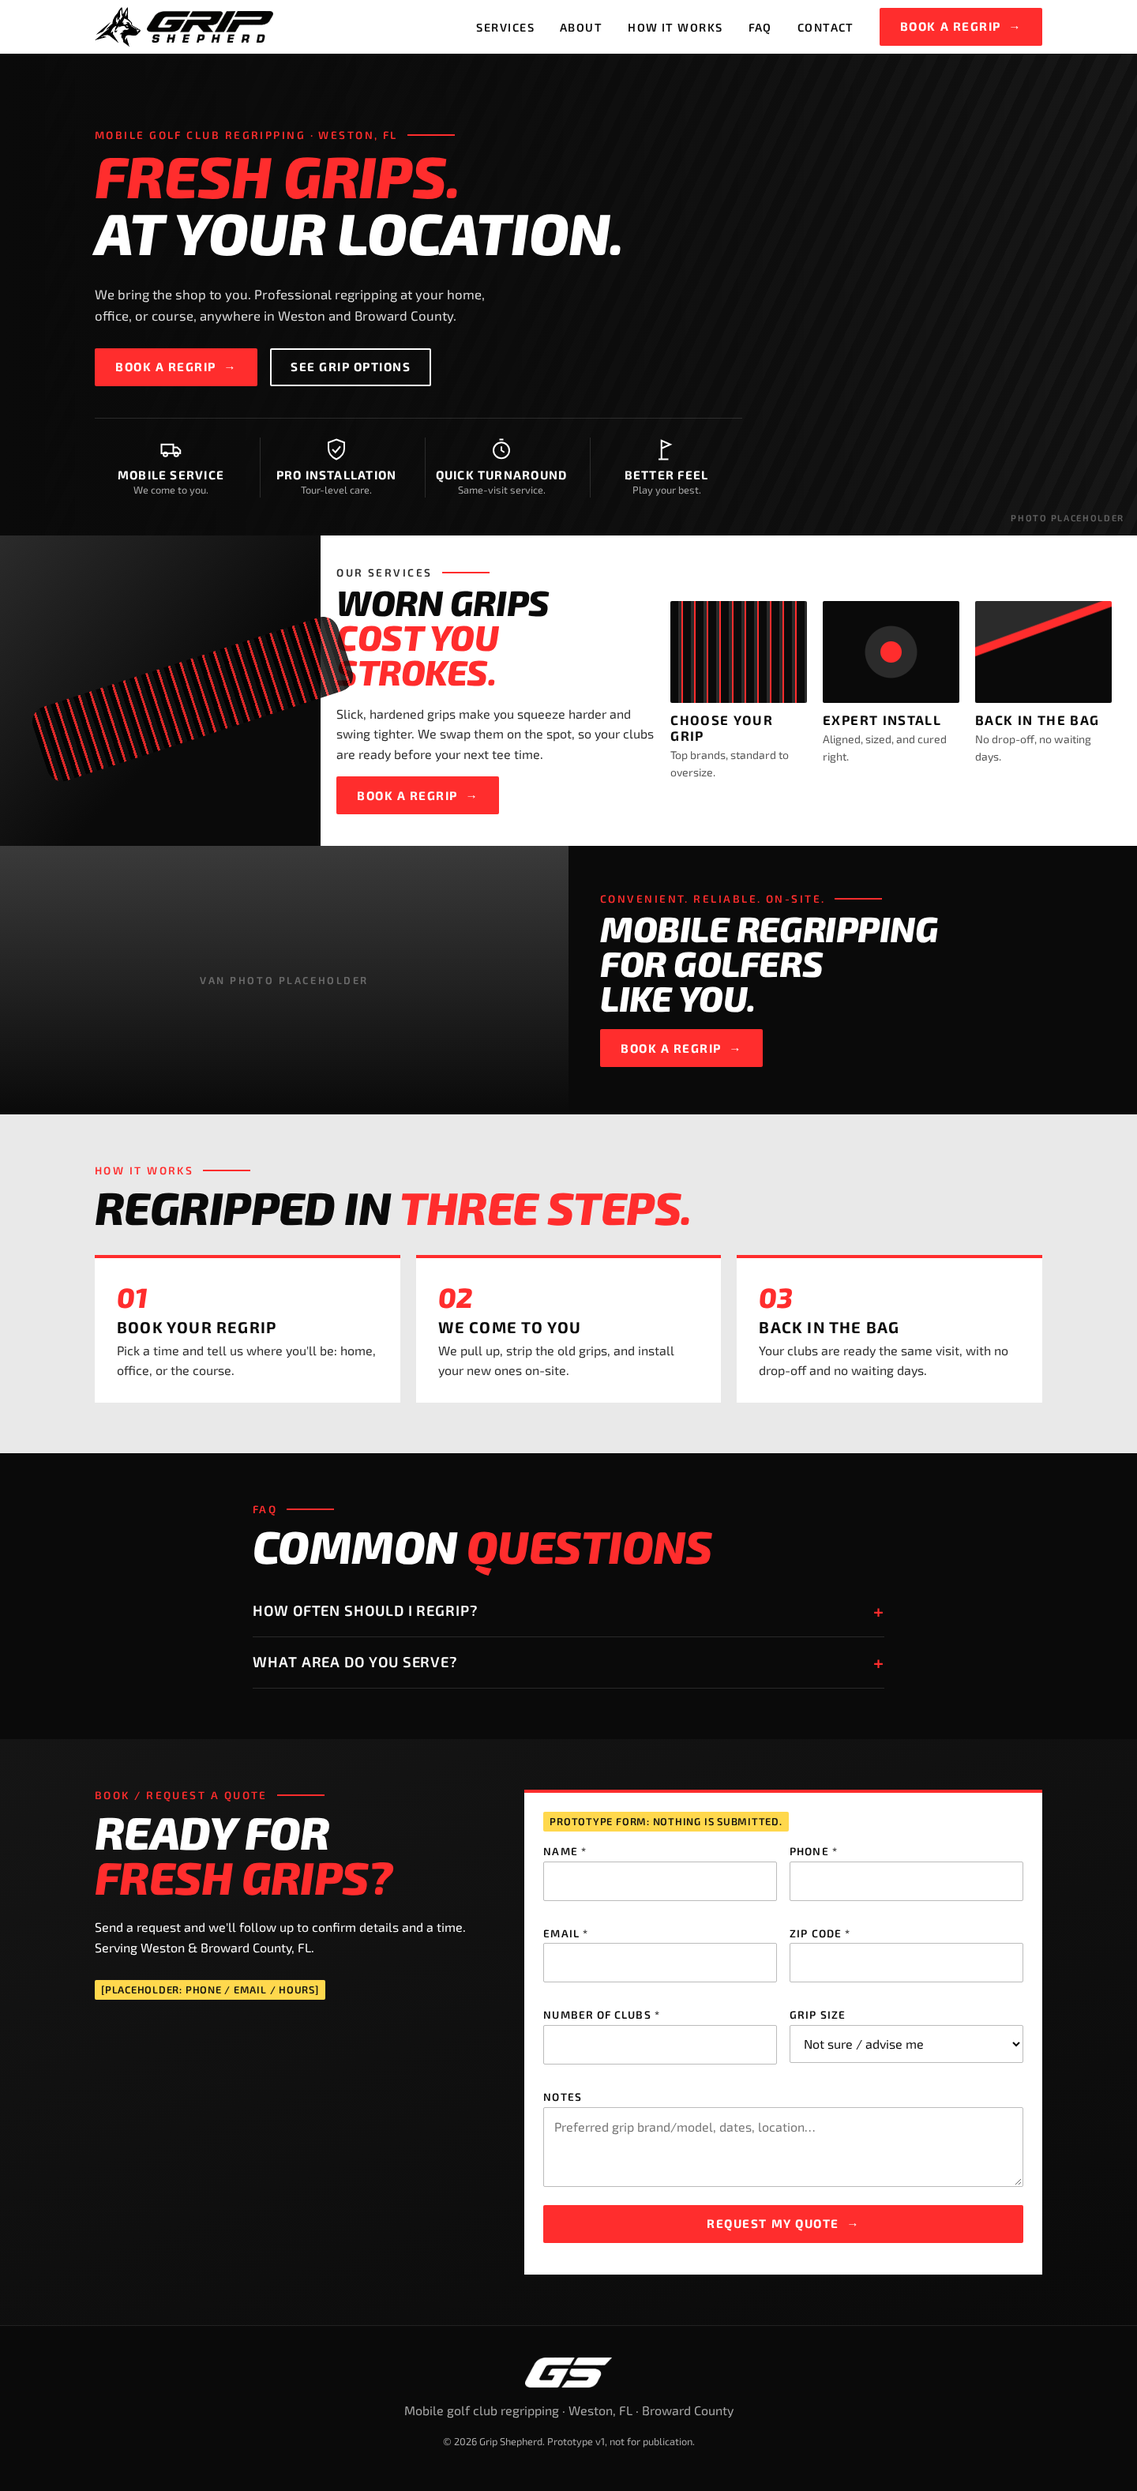
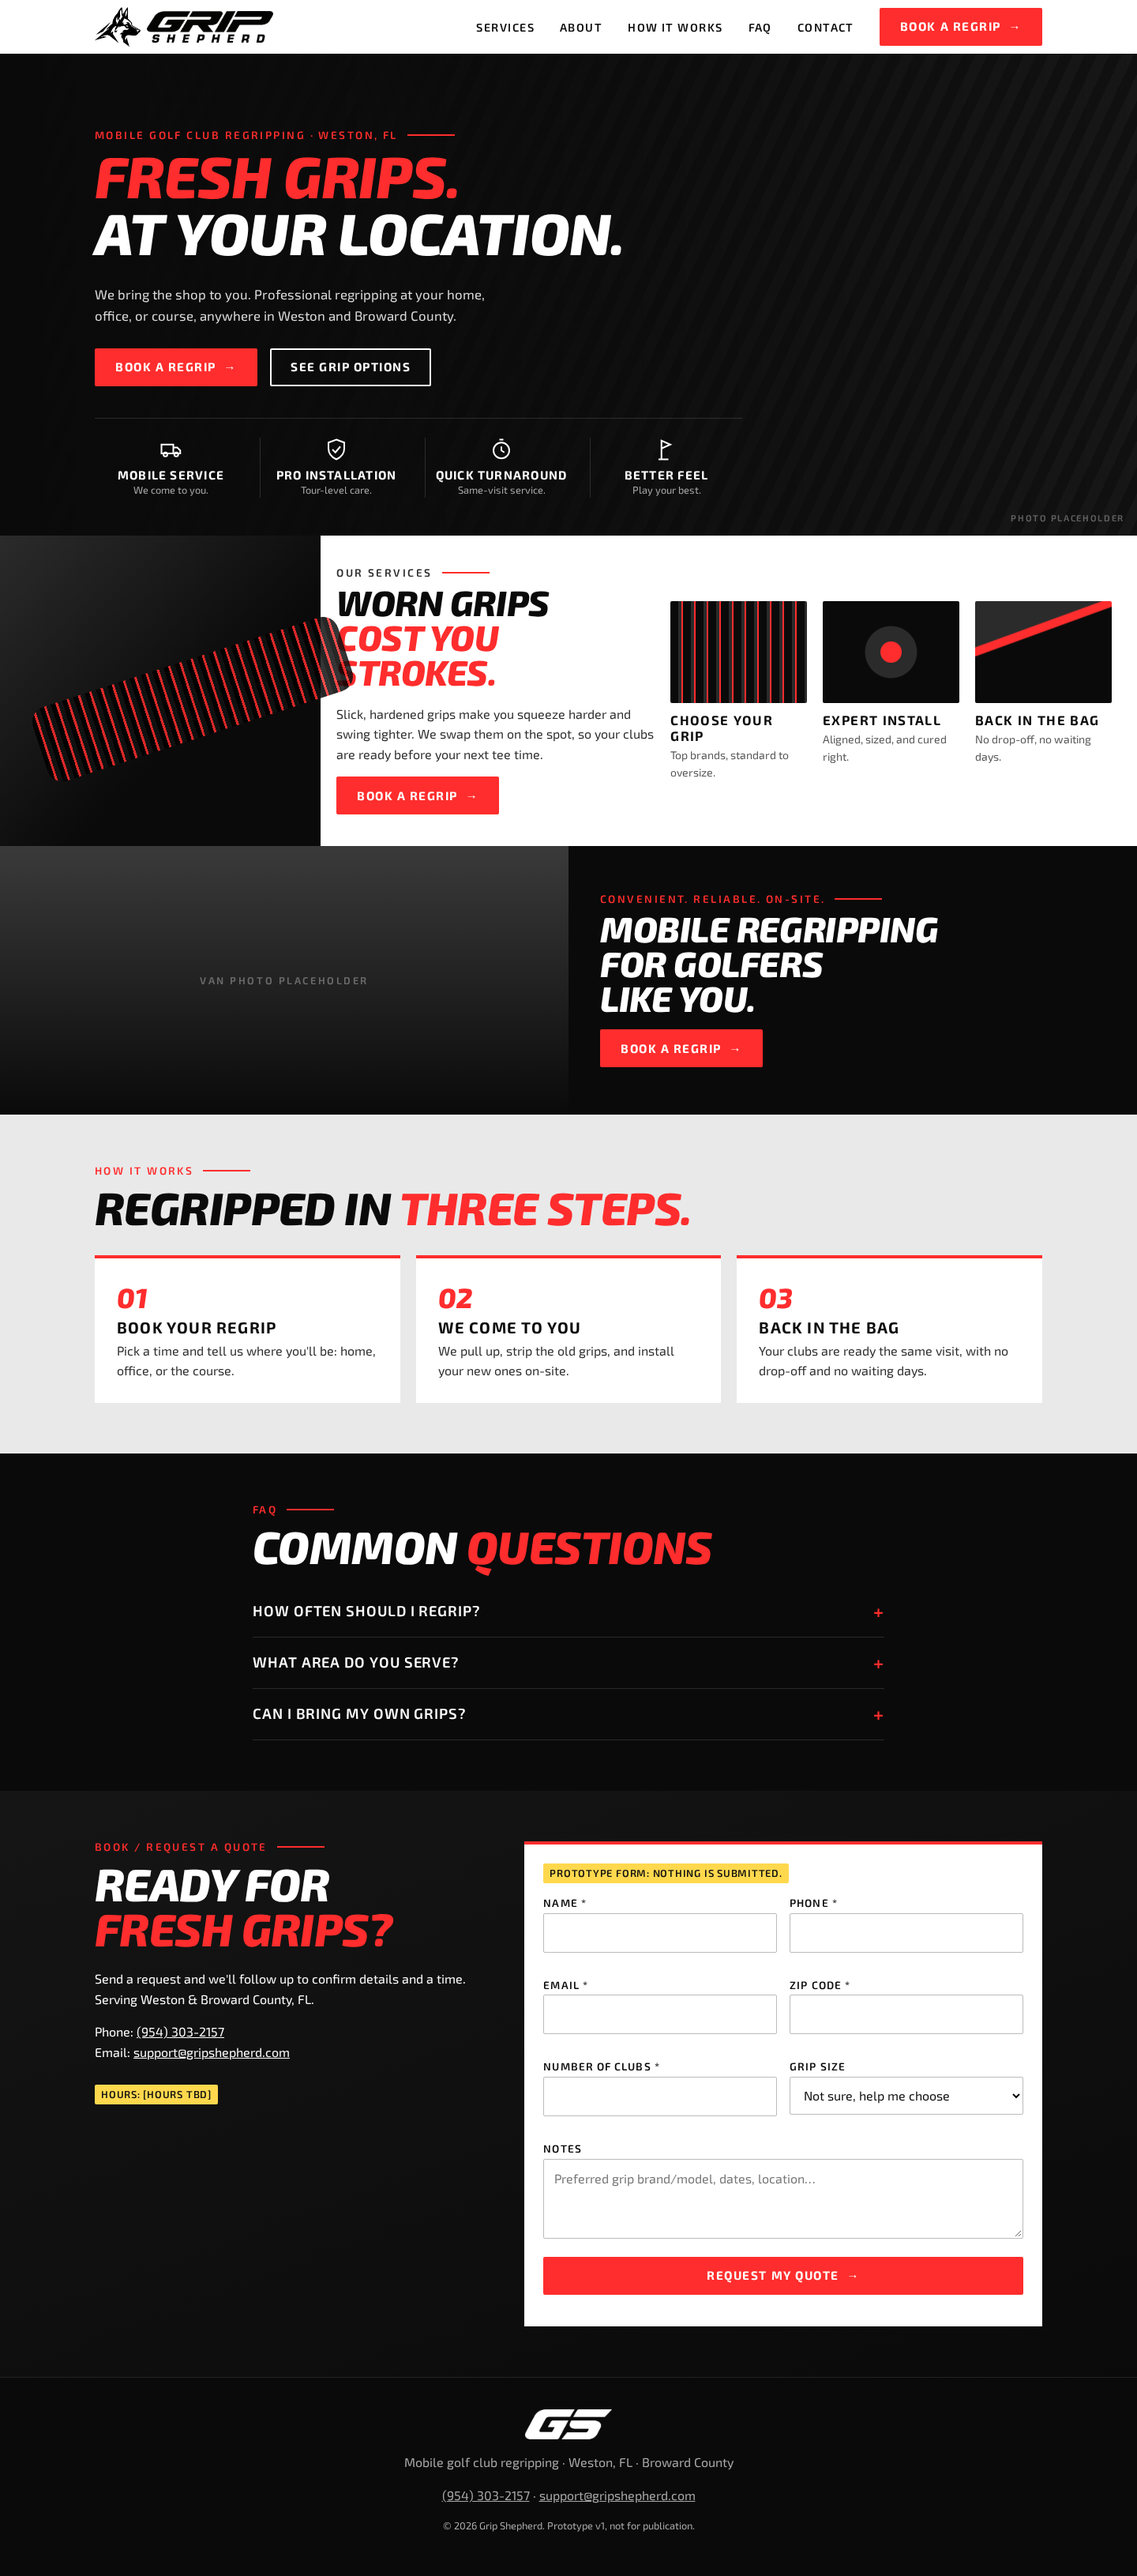
Add contact info and BYO grips FAQ

diff --git a/index.html b/index.html
@@ -97,6 +97,8 @@
     <h2 class="display">Common <span class="red">Questions</span></h2>
     <details><summary>How often should I regrip?</summary><p>A common guideline is about every 30 to 40 rounds, or sooner if your grips feel slick, hard, or cracked. South Florida heat and humidity can wear grips faster, so if you play year-round, check them often.</p></details>
     <details><summary>What area do you serve?</summary><p>We serve Weston and surrounding Broward County. Not sure if you're in range? Contact us and we'll let you know.</p></details>
+    <!-- DRAFT COPY for Rex to review: BYO grips FAQ -->
+    <details><summary>Can I bring my own grips?</summary><p>Yes. If you already have grips you love, have them ready and we'll install them during your visit.</p></details>
       </div>
 </section>
 
@@ -106,8 +108,10 @@
       <p class="eyebrow">Book / Request a Quote</p>
       <h2 class="display">Ready For<br><span class="red">Fresh Grips?</span></h2>
       <p>Send a request and we'll follow up to confirm details and a time. Serving Weston &amp; Broward County, FL.</p>
-      <p class="placeholder-note">[PLACEHOLDER: phone / email / hours]</p>
+      <p>Phone: <a href="tel:+19543032157">(954) 303-2157</a><br>Email: <a href="mailto:support@gripshepherd.com">support@gripshepherd.com</a></p>
+      <p class="placeholder-note">Hours: [Hours TBD]</p>
     </div>
+    <!-- Quote requests should deliver to Gilberto@gripshepherd.com once a form backend is approved. -->
     <form id="quote-form" novalidate>
       <p class="proto-note" role="note">Prototype form: nothing is submitted.</p>
       <div class="field"><label for="name">Name *</label><input id="name" name="name" autocomplete="name" required><span class="err" id="name-err"></span></div>
@@ -128,6 +132,7 @@
   <div class="wrap footer-inner">
     <img src="assets/gs-monogram-black.png" alt="GS monogram" class="invert footer-mono" width="1050" height="367" loading="lazy">
     <p>Mobile golf club regripping · Weston, FL · Broward County</p>
+    <p><a href="tel:+19543032157">(954) 303-2157</a> · <a href="mailto:support@gripshepherd.com">support@gripshepherd.com</a></p>
     <p class="small">© 2026 Grip Shepherd. Prototype v1, not for publication.</p>
   </div>
 </footer>
